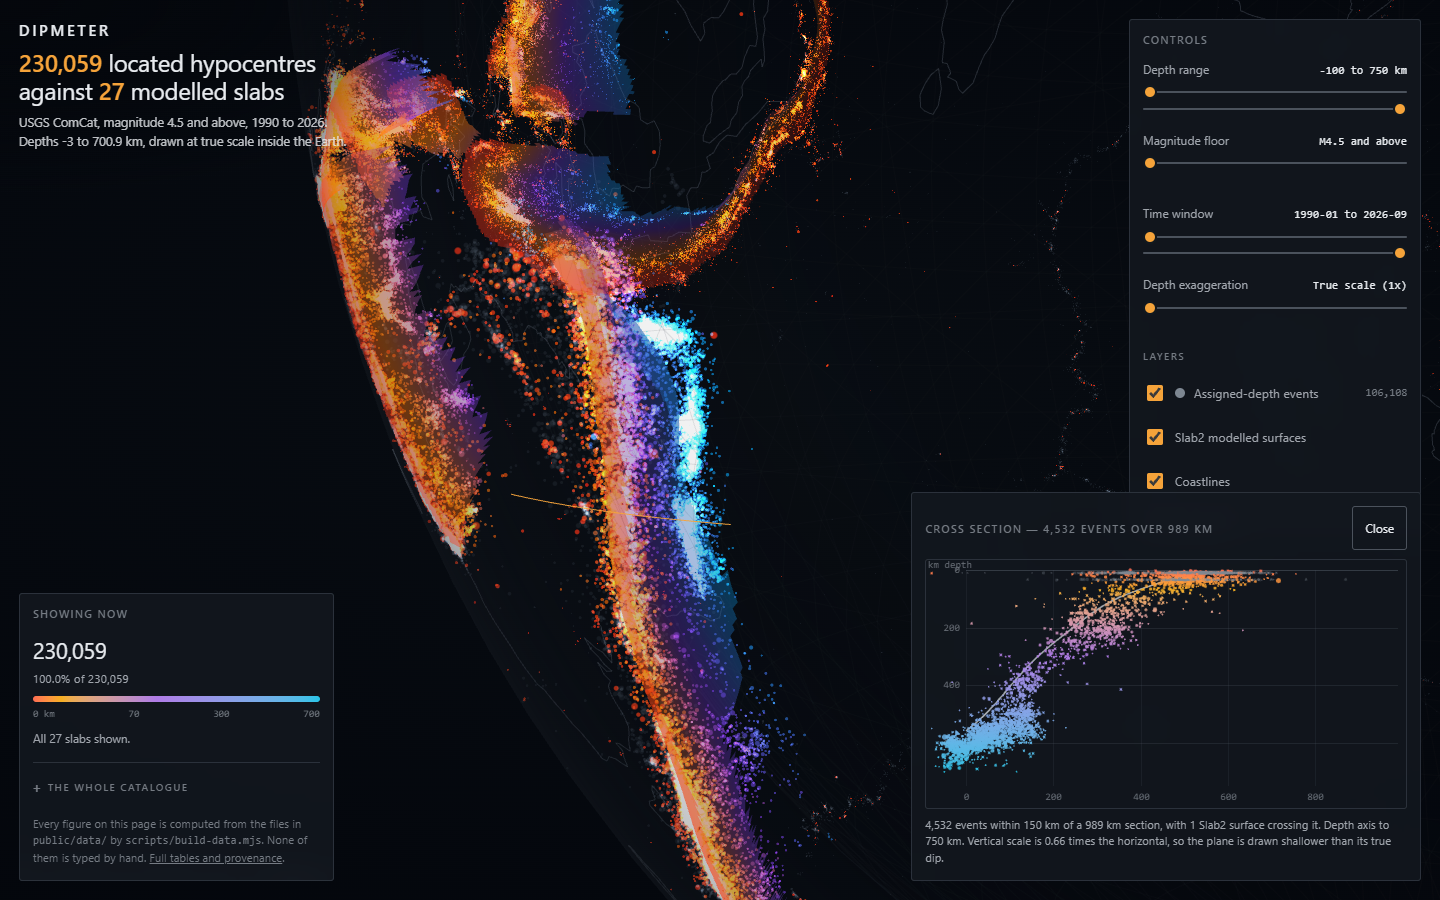
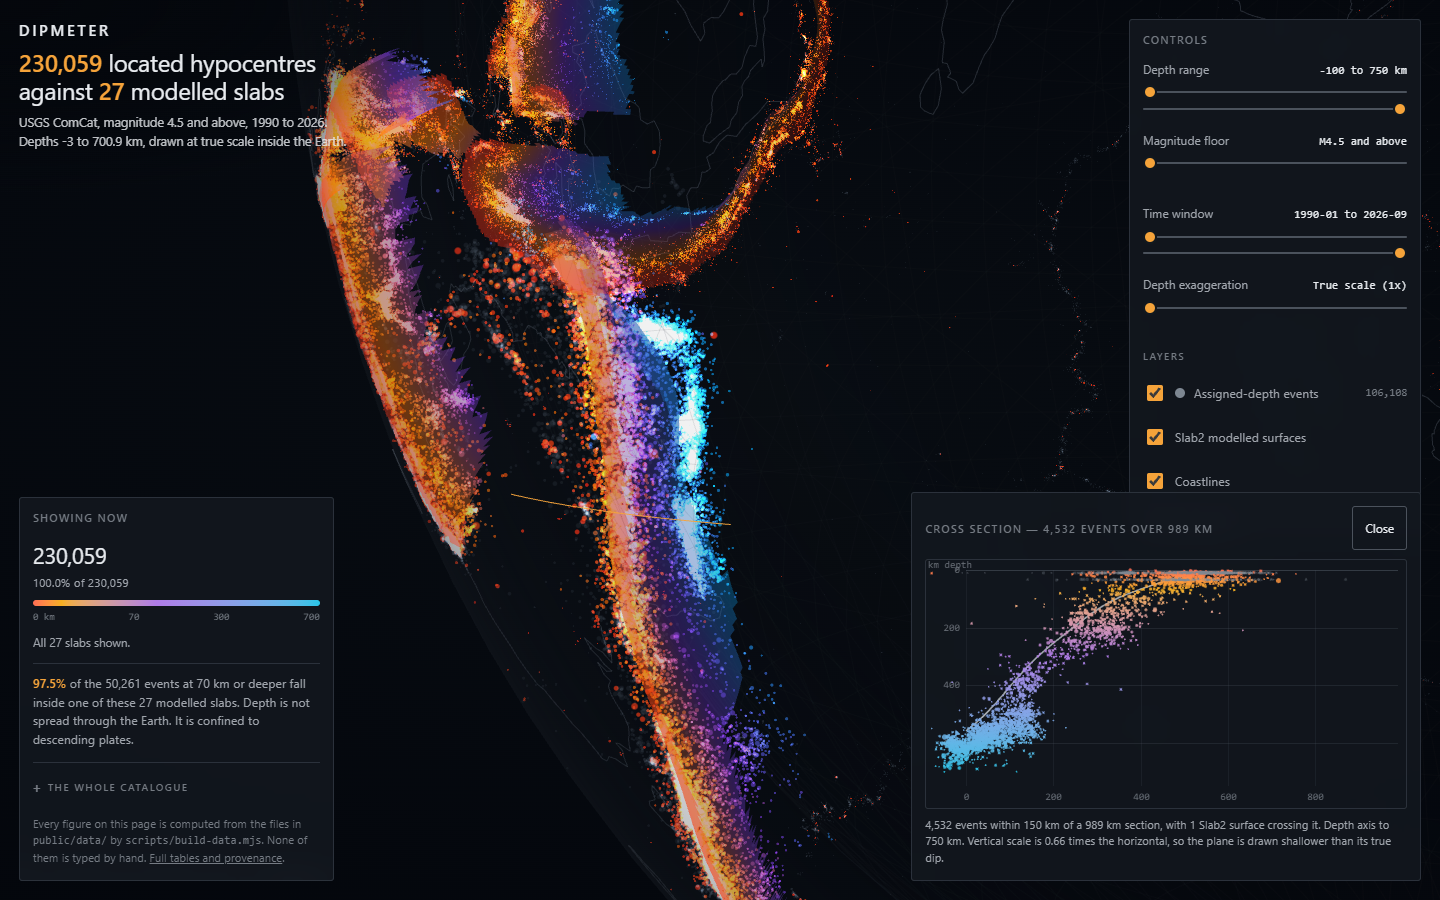
Surface the load-bearing ratio: 97.5% of deep events sit inside a modelled slab
Of the 50,261 events at 70 km or deeper, 48,986 fall inside one of the 27
Slab2 footprints. That is the page's actual argument in one number: depth is
not distributed through the Earth, it is confined to descending plates. It now
appears in the readout panel and in the no-JavaScript fallback, computed from
the manifest in both places rather than written down.

Cascadia is the one modelled zone with no deep seismicity at all, which the
fallback names, because it is a real property of that margin and not a gap in
the catalogue.

Also adds a verify check on index.html's og:description, which carries a count
in plain text where nothing regenerates it. Falsified by planting a wrong
number and confirming the check fails. 70 checks.

Claude-Session: https://claude.ai/code/session_019rfvjaP9hvT368bXjyYaBM

Changed region(s): [[0.0, 0.56, 0.2188, 0.84]]

diff --git a/src/main.js b/src/main.js
@@ -661,6 +661,15 @@ function buildUI(coastSegments, slabs) {
   $('fact-above').textContent = fmt(c.aboveSeaLevel);
   $('fact-assigned').textContent = fmt(c.defaultDepth);
   $('fact-attributed').textContent = fmt(c.attributedToASlab);
+  // The load-bearing ratio: depth is not spread through the Earth, it is confined to slabs.
+  const deepTotal = c.regimes.intermediate + c.regimes.deep;
+  const deepAttributed = manifest.zones.reduce((a, z) => a + z.deepEvents, 0);
+  $('fact-deep-attributed').textContent = fmt(deepAttributed)
+    + ' (' + (100 * deepAttributed / deepTotal).toFixed(1) + '%)';
+  $('key-fact').innerHTML = '<b>' + (100 * deepAttributed / deepTotal).toFixed(1)
+    + '%</b> of the ' + fmt(deepTotal) + ' events at 70 km or deeper fall inside one of these '
+    + manifest.zones.length + ' modelled slabs. Depth is not spread through the Earth. It is '
+    + 'confined to descending plates.';
   $('fact-triangles').textContent = fmt(slabs.triangles);
   $('fact-coast').textContent = fmt(coastSegments);
 

diff --git a/index.html b/index.html
@@ -49,6 +49,7 @@
     <div class="legend-ticks"><span>0 km</span><span>70</span><span>300</span><span>700</span></div>
   </div>
   <p class="sub" id="zone-caption" style="font-size:0.78rem;color:var(--ink-muted);margin:0.6rem 0 0;">All 27 slabs shown.</p>
+  <p class="key-fact" id="key-fact">&nbsp;</p>
 
   <details id="facts-details">
   <summary>The whole catalogue</summary>
@@ -61,6 +62,7 @@
     <div><dt>Above sea level</dt><dd id="fact-above">&mdash;</dd></div>
     <div><dt>Assigned (not solved) depth</dt><dd id="fact-assigned">&mdash;</dd></div>
     <div><dt>Attributed to a slab</dt><dd id="fact-attributed">&mdash;</dd></div>
+    <div><dt>Of those at 70 km+, in a slab</dt><dd id="fact-deep-attributed">&mdash;</dd></div>
     <div><dt>Slab surface triangles</dt><dd id="fact-triangles">&mdash;</dd></div>
     <div><dt>Coastline segments</dt><dd id="fact-coast">&mdash;</dd></div>
   </dl>

diff --git a/src/fallback.generated.html b/src/fallback.generated.html
@@ -87,6 +87,14 @@ if that distance is under 300 km.
 160,303 events meet that test and 69,756 do not, which is
 expected: mid-ocean ridges, transform faults and continental interiors have no slab under them.</p>
 
+<p><strong>Split by depth, that ratio is the whole argument of this page.</strong> Of the
+50,261 events at 70 km or deeper, <strong>48,986
+(97.5%)</strong> fall inside a modelled slab. Depth is
+not distributed through the Earth; it is confined to 26
+descending plates. Cascadia
+is the one modelled zone with no deep seismicity at all,
+which is a real property of that margin rather than a gap in the catalogue.</p>
+
 <h2>Catalogue event types</h2>
 <p>The query asked the catalogue for everything above magnitude 4.5, not only for earthquakes, so
 that the exclusions could be counted rather than hidden by the server.</p>

diff --git a/src/styles.css b/src/styles.css
@@ -419,6 +419,16 @@ dl.facts > div { display: flex; justify-content: space-between; gap: 0.75rem; bo
 dl.facts dt { color: var(--ink-muted); }
 dl.facts dd { margin: 0; font-family: var(--font-mono); font-size: 0.76rem; font-variant-numeric: tabular-nums; }
 
+.key-fact {
+  margin: 0.7rem 0 0;
+  padding-top: 0.7rem;
+  border-top: 1px solid var(--hairline);
+  font-size: 0.82rem;
+  color: var(--ink-muted);
+  text-wrap: pretty;
+}
+.key-fact b { color: var(--accent); font-weight: 620; font-variant-numeric: tabular-nums; }
+
 .legend { display: grid; gap: 0.3rem; margin: 0.6rem 0 0; }
 .legend-bar {
   height: 6px;

diff --git a/README.md b/README.md
@@ -22,7 +22,7 @@ headline number from the raw sources, separately decodes the shipped binaries, a
 disagree.
 
 ```
-npm run verify      # 67 checks, every figure recomputed from data on disk
+npm run verify      # 70 checks, every figure recomputed from data on disk
 ```
 
 The brief this was built from expected 229,956 events. The real count fetched on 2026-09-07 is
